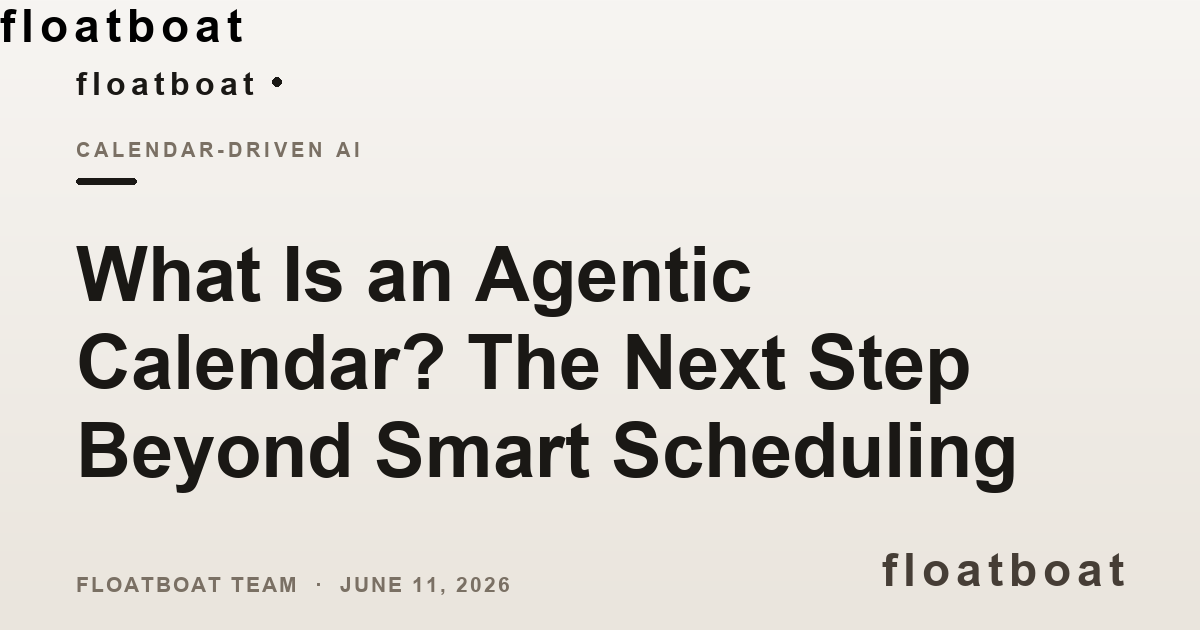
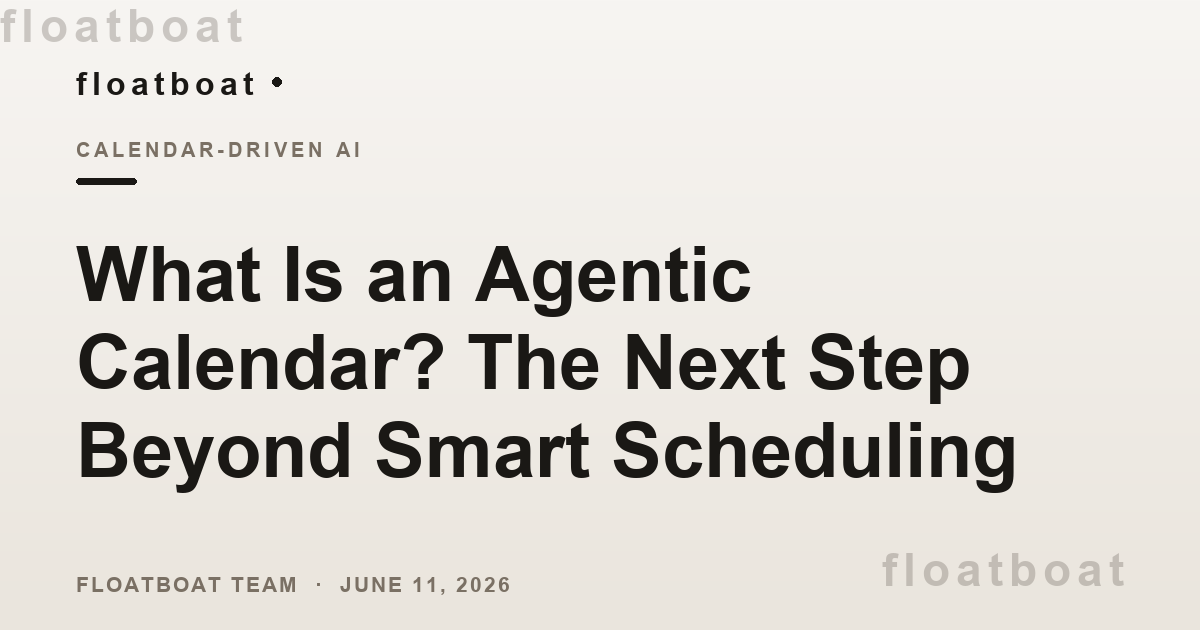
feat(faq): converge FAQ to 6 — final group-10 (9 pairs)
Completes the all-posts FAQ-6 pass: best-ai-scheduling-assistant,
building-agentic-ai-systems-build-or-buy, claude-code-vs-cowork-vs-tag,
cordis-plugin-framework, floatcup-world-cup-2026-calendar-subscribe,
manus-ai-alternatives-2026, no-code-ai-agent-builder,
raycast-for-windows-floatboat, what-is-obsidian-vault.
Audit now 0 problems across en 126 / zh 126.

Changed region(s): [[0.74, 0.8746, 0.9558, 0.9349], [0.0, 0.0, 0.2158, 0.0905]]

diff --git a/content/blog/oh-my-codex-vs-superpowers.md b/content/blog/oh-my-codex-vs-superpowers.md
@@ -5,6 +5,7 @@ slug: "oh-my-codex-vs-superpowers"
 date: "2026-04-30"
 author: "Nova"
 tags: ["AI Coding Agents", "OpenAI Codex", "Claude Code", "Developer Tools"]
+cover: "/blog/images/oh-my-codex-vs-superpowers/1777514461509-019a42cd-60f0-4a98-a14e-15689382a93a.PNG"
 locale: "en"
 draft: false
 ---

diff --git a/content/blog/zh/oh-my-codex-vs-superpowers.md b/content/blog/zh/oh-my-codex-vs-superpowers.md
@@ -5,6 +5,7 @@ slug: "oh-my-codex-vs-superpowers"
 date: "2026-04-30"
 author: "Nova"
 tags: ["AI 编码 Agent", "OpenAI Codex", "Claude Code", "开发者工具"]
+cover: "/blog/images/oh-my-codex-vs-superpowers/1777514461509-019a42cd-60f0-4a98-a14e-15689382a93a.PNG"
 locale: "zh"
 draft: false
 ---

diff --git a/content/blog/what-is-agentic-calendar.md b/content/blog/what-is-agentic-calendar.md
@@ -5,6 +5,7 @@ slug: "what-is-agentic-calendar"
 date: "2026-06-11"
 author: "Floatboat Team"
 tags: ["Agentic Calendar", "calendar-driven AI", "AI scheduling agent"]
+cover: "/blog/images/what-is-agentic-calendar/what-is-agentic-calendar-og.png"
 locale: "en"
 draft: false
 ---

diff --git a/content/blog/zh/what-is-agentic-calendar.md b/content/blog/zh/what-is-agentic-calendar.md
@@ -5,6 +5,7 @@ slug: "what-is-agentic-calendar"
 date: "2026-06-11"
 author: "Floatboat Team"
 tags: ["Agentic Calendar", "日历驱动 AI", "AI 日程 Agent"]
+cover: "/blog/images/what-is-agentic-calendar/what-is-agentic-calendar-og.png"
 locale: "zh"
 draft: false
 ---

diff --git a/content/blog/gemini-3-7-flash.md b/content/blog/gemini-3-7-flash.md
@@ -5,6 +5,7 @@ slug: "gemini-3-7-flash"
 date: "2026-08-21"
 author: "Kostja"
 tags: ["Gemini 3.7 Flash", "模型评测", "Google"]
+cover: "/blog/images/gemini-3-7-flash/1786704422108-074d5638-c707-43da-bceb-6b782f31c96e.png"
 locale: "en"
 draft: false
 ---

diff --git a/content/blog/zh/gemini-3-7-flash.md b/content/blog/zh/gemini-3-7-flash.md
@@ -5,6 +5,7 @@ slug: "gemini-3-7-flash"
 date: "2026-08-21"
 author: "Kostja"
 tags: ["Gemini 3.7 Flash", "模型评测", "Google"]
+cover: "/blog/images/gemini-3-7-flash/1786704422108-074d5638-c707-43da-bceb-6b782f31c96e.png"
 locale: "zh"
 draft: false
 ---
